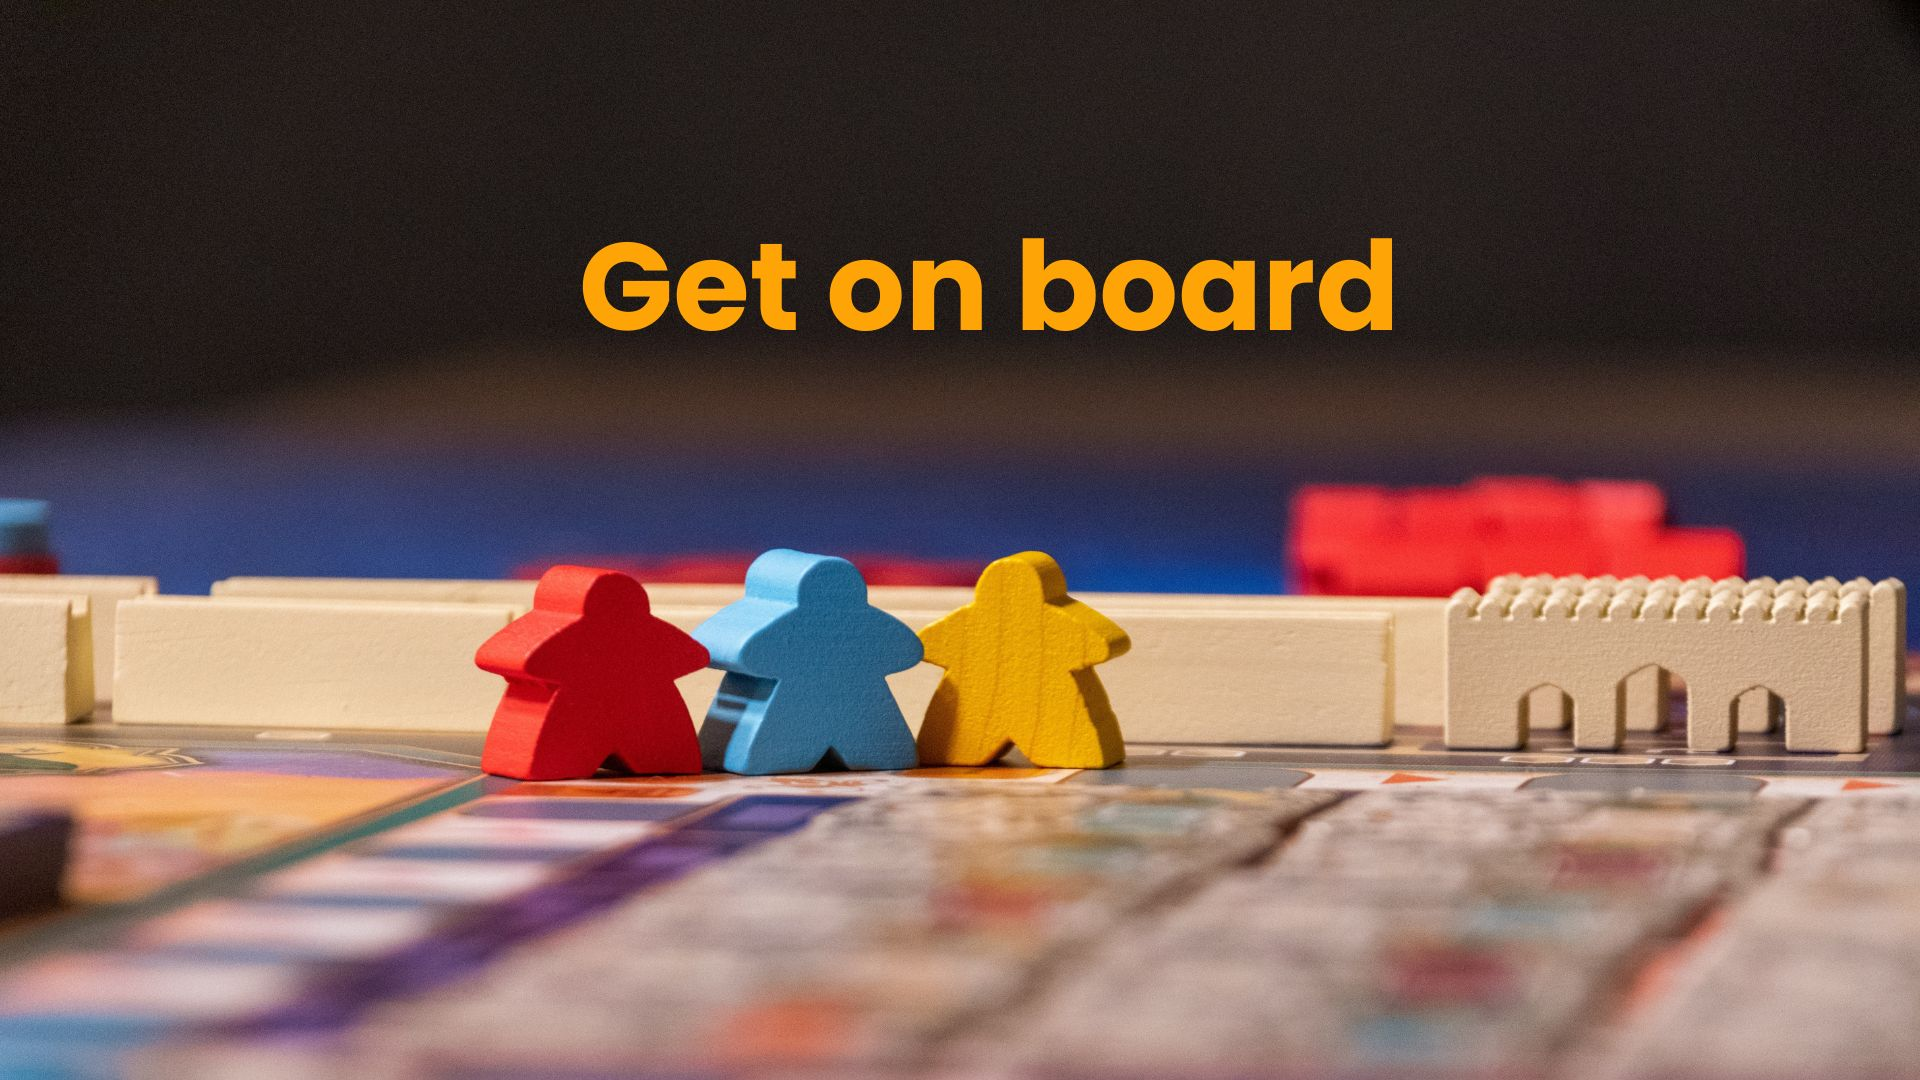
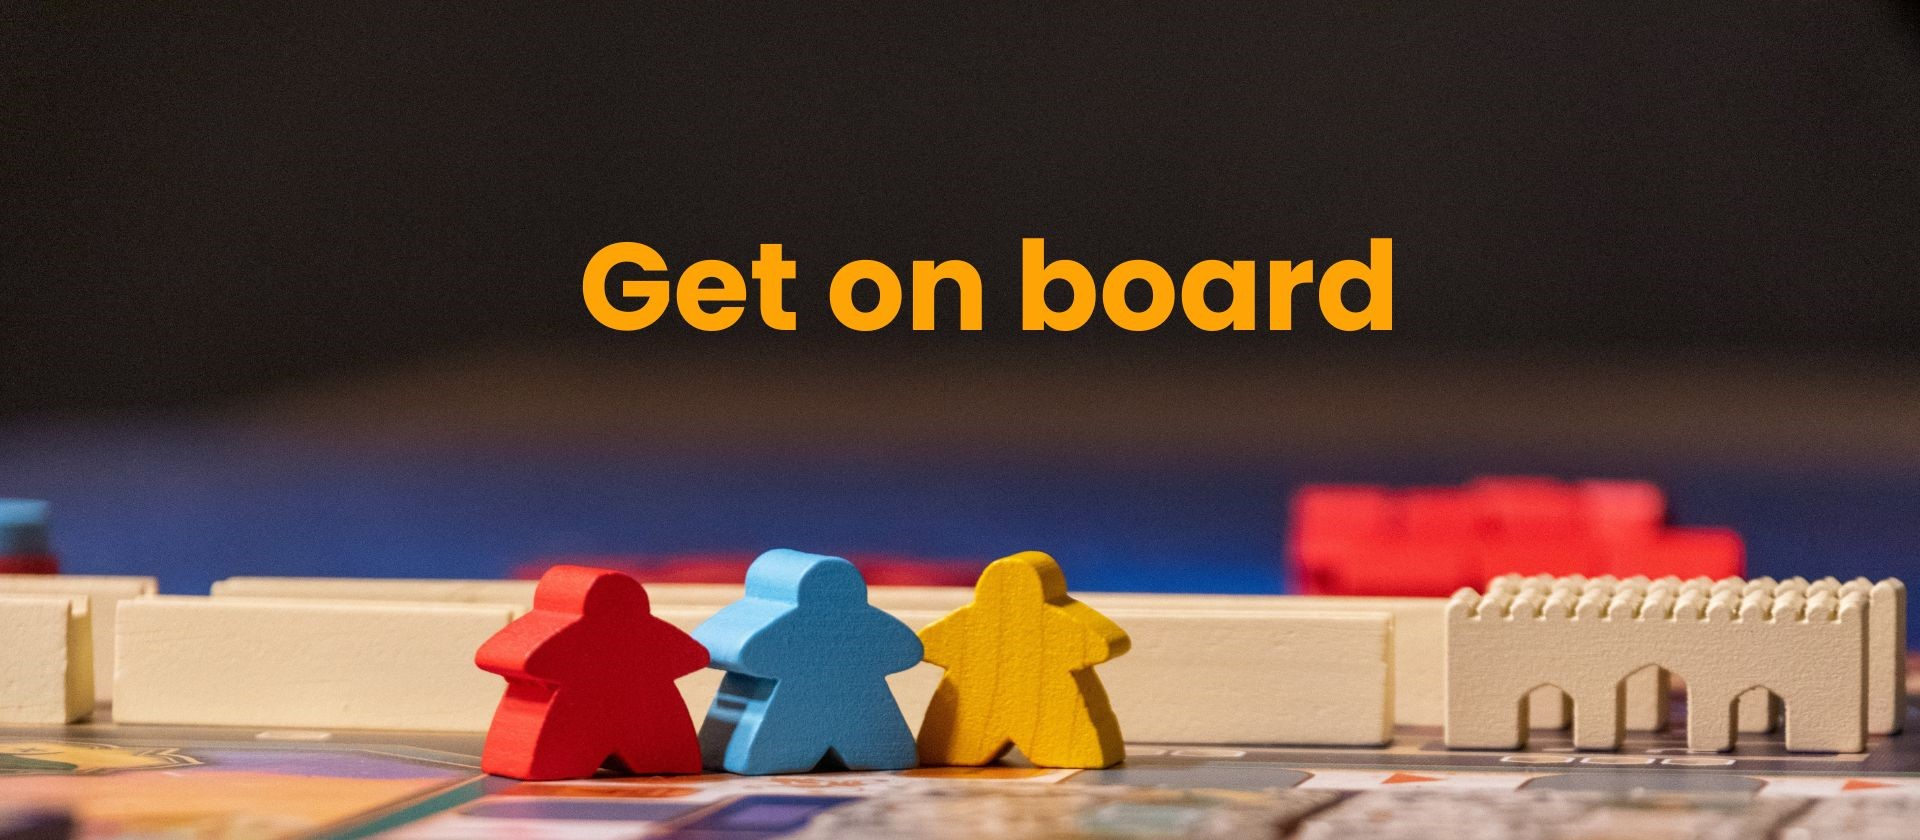
Homepage html changes
Different class names and structures. Add new homepage photo.

diff --git a/project_src/index.html b/project_src/index.html
@@ -29,7 +29,7 @@
         <!-- creating different parts -->
 
         <!-- Home page Section -->
-        <div class="Home Page">
+        <div class="homePage">
             <div class="thumbnail-section">
                 <img src="resources/homePage.jpg" alt="Get on Board" class="thumbnail">
             </div>
@@ -38,26 +38,34 @@
 
             <ul class="homepage-grid" role="list">
                 <li class="homepage-grid-li">
-                    <div class="homepage-li-iconContainer">
-                        <i class="fa-light fa-face-grin-beam" style="color: #1b1338;"></i>
+                    <div class="homepage-grid-title-section">
+                        <div class="homepage-li-iconContainer">
+                            <i class="fas fa-check" style="color: #fea407;"></i>
+                        </div>
+                        <h3 class="homepage-titles h3">Разнообразие</h3>
                     </div>
-                    <h3 class="homepage-li-h3 h3">Разнообразие</h3>
+                   
                     <div class="homepage-li-divider"></div>
                     <p class="homepage-li-content">Всяка игра се отличава със своята механика, цел, стил и времетраене. Това е гаранция, че има поне една идеална игра за всеки потребител, а защо не и за цялата компания? Чудиш се как да я откриеш? Започни като си отговориш на въпроса – Индивидуалист или отборен играч си?</p>
                 </li>
                 <li class="homepage-grid-li">
-                    <div class="homepage-li-iconContainer">
-                        <i class="fa-light fa-face-grin-beam" style="color: #1b1338;"></i>
+                    <div class="homepage-grid-title-section">
+                        <div class="homepage-li-iconContainer">
+                            <i class="fas fa-check" style="color: #fea407;"></i>
+                        </div>
+                        <h3 class="homepage-titles h3">Различен повод – различна игра</h3>
                     </div>
-                    <h3 class="homepage-li-h3 h3">Различен повод – различна игра</h3>
+
                     <div class="homepage-li-divider"></div>
                     <p class="homepage-li-content">Парти, време със приятелите, време със семейството, време сам или време с любимия човек? Различните игри са идеални за различен брой играчи и предоставят подходящи цели и изпитания пред играчите.</p>
                 </li>
                 <li class="homepage-grid-li">
-                    <div class="homepage-li-iconContainer">
-                        <i class="fa-light fa-face-grin-beam" style="color: #1b1338;"></i>
+                    <div class="homepage-grid-title-section">
+                        <div class="homepage-li-iconContainer">
+                            <i class="fas fa-check" style="color: #fea407;"></i>
+                        </div>
+                        <h3 class="homepage-titles h3">Развитие</h3>
                     </div>
-                    <h3 class="homepage-li-h3 h3">Развитие</h3>
                     <div class="homepage-li-divider"></div>
                     <p class="homepage-li-content">В света на настолните игри ще откриеш голямо разнообразие от игри, чрез които не само ще се забавляваш, но ще научаваш и много нови неща.</p>
                 </li>        
@@ -68,7 +76,7 @@
 
         <!-- BoardGames -->
 
-        <div class="Board Games">
+        <div class="boardGames">
             <ul class="games-grid" role="list">
                 <li class="games-grid-li">
                     <h2 class="games-grid-li-title">Стратегически</h2>
@@ -105,7 +113,7 @@
 
         <!-- Ranking -->
 
-        <div class="Ranking">
+        <div class="ranking">
             <div class="ranking-section" role="list">
                <table class="ranking-table">
                 <thead>
